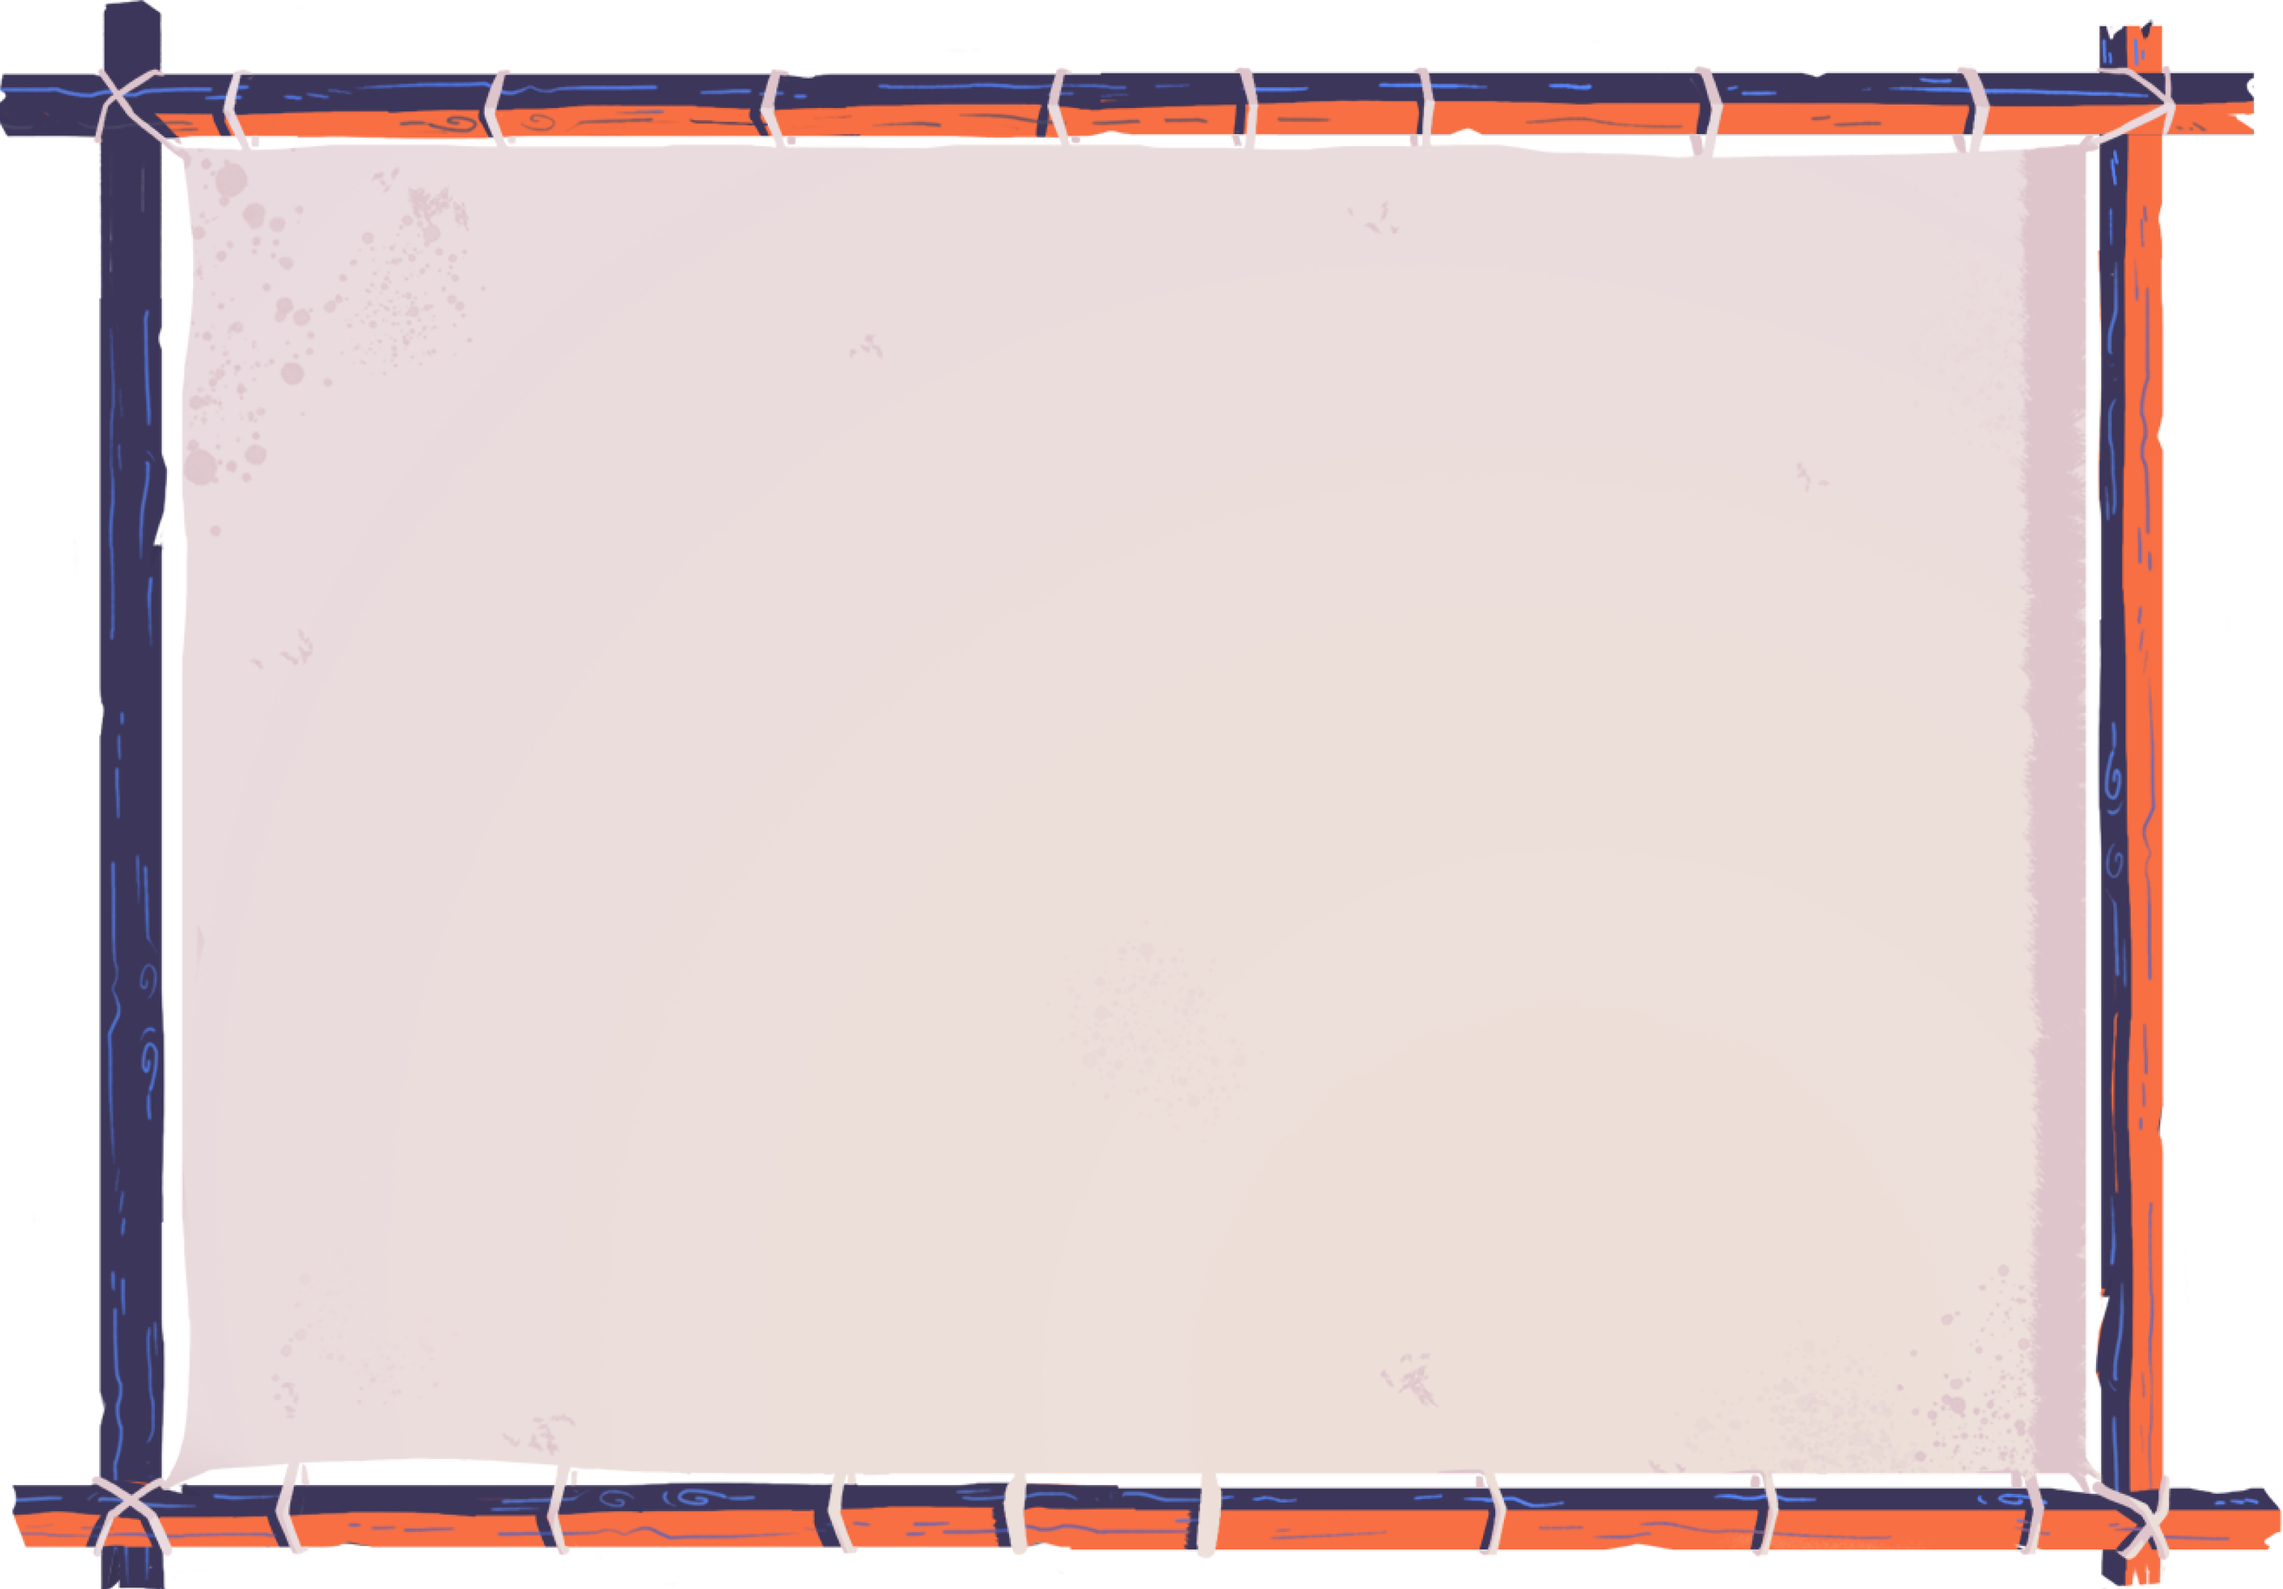
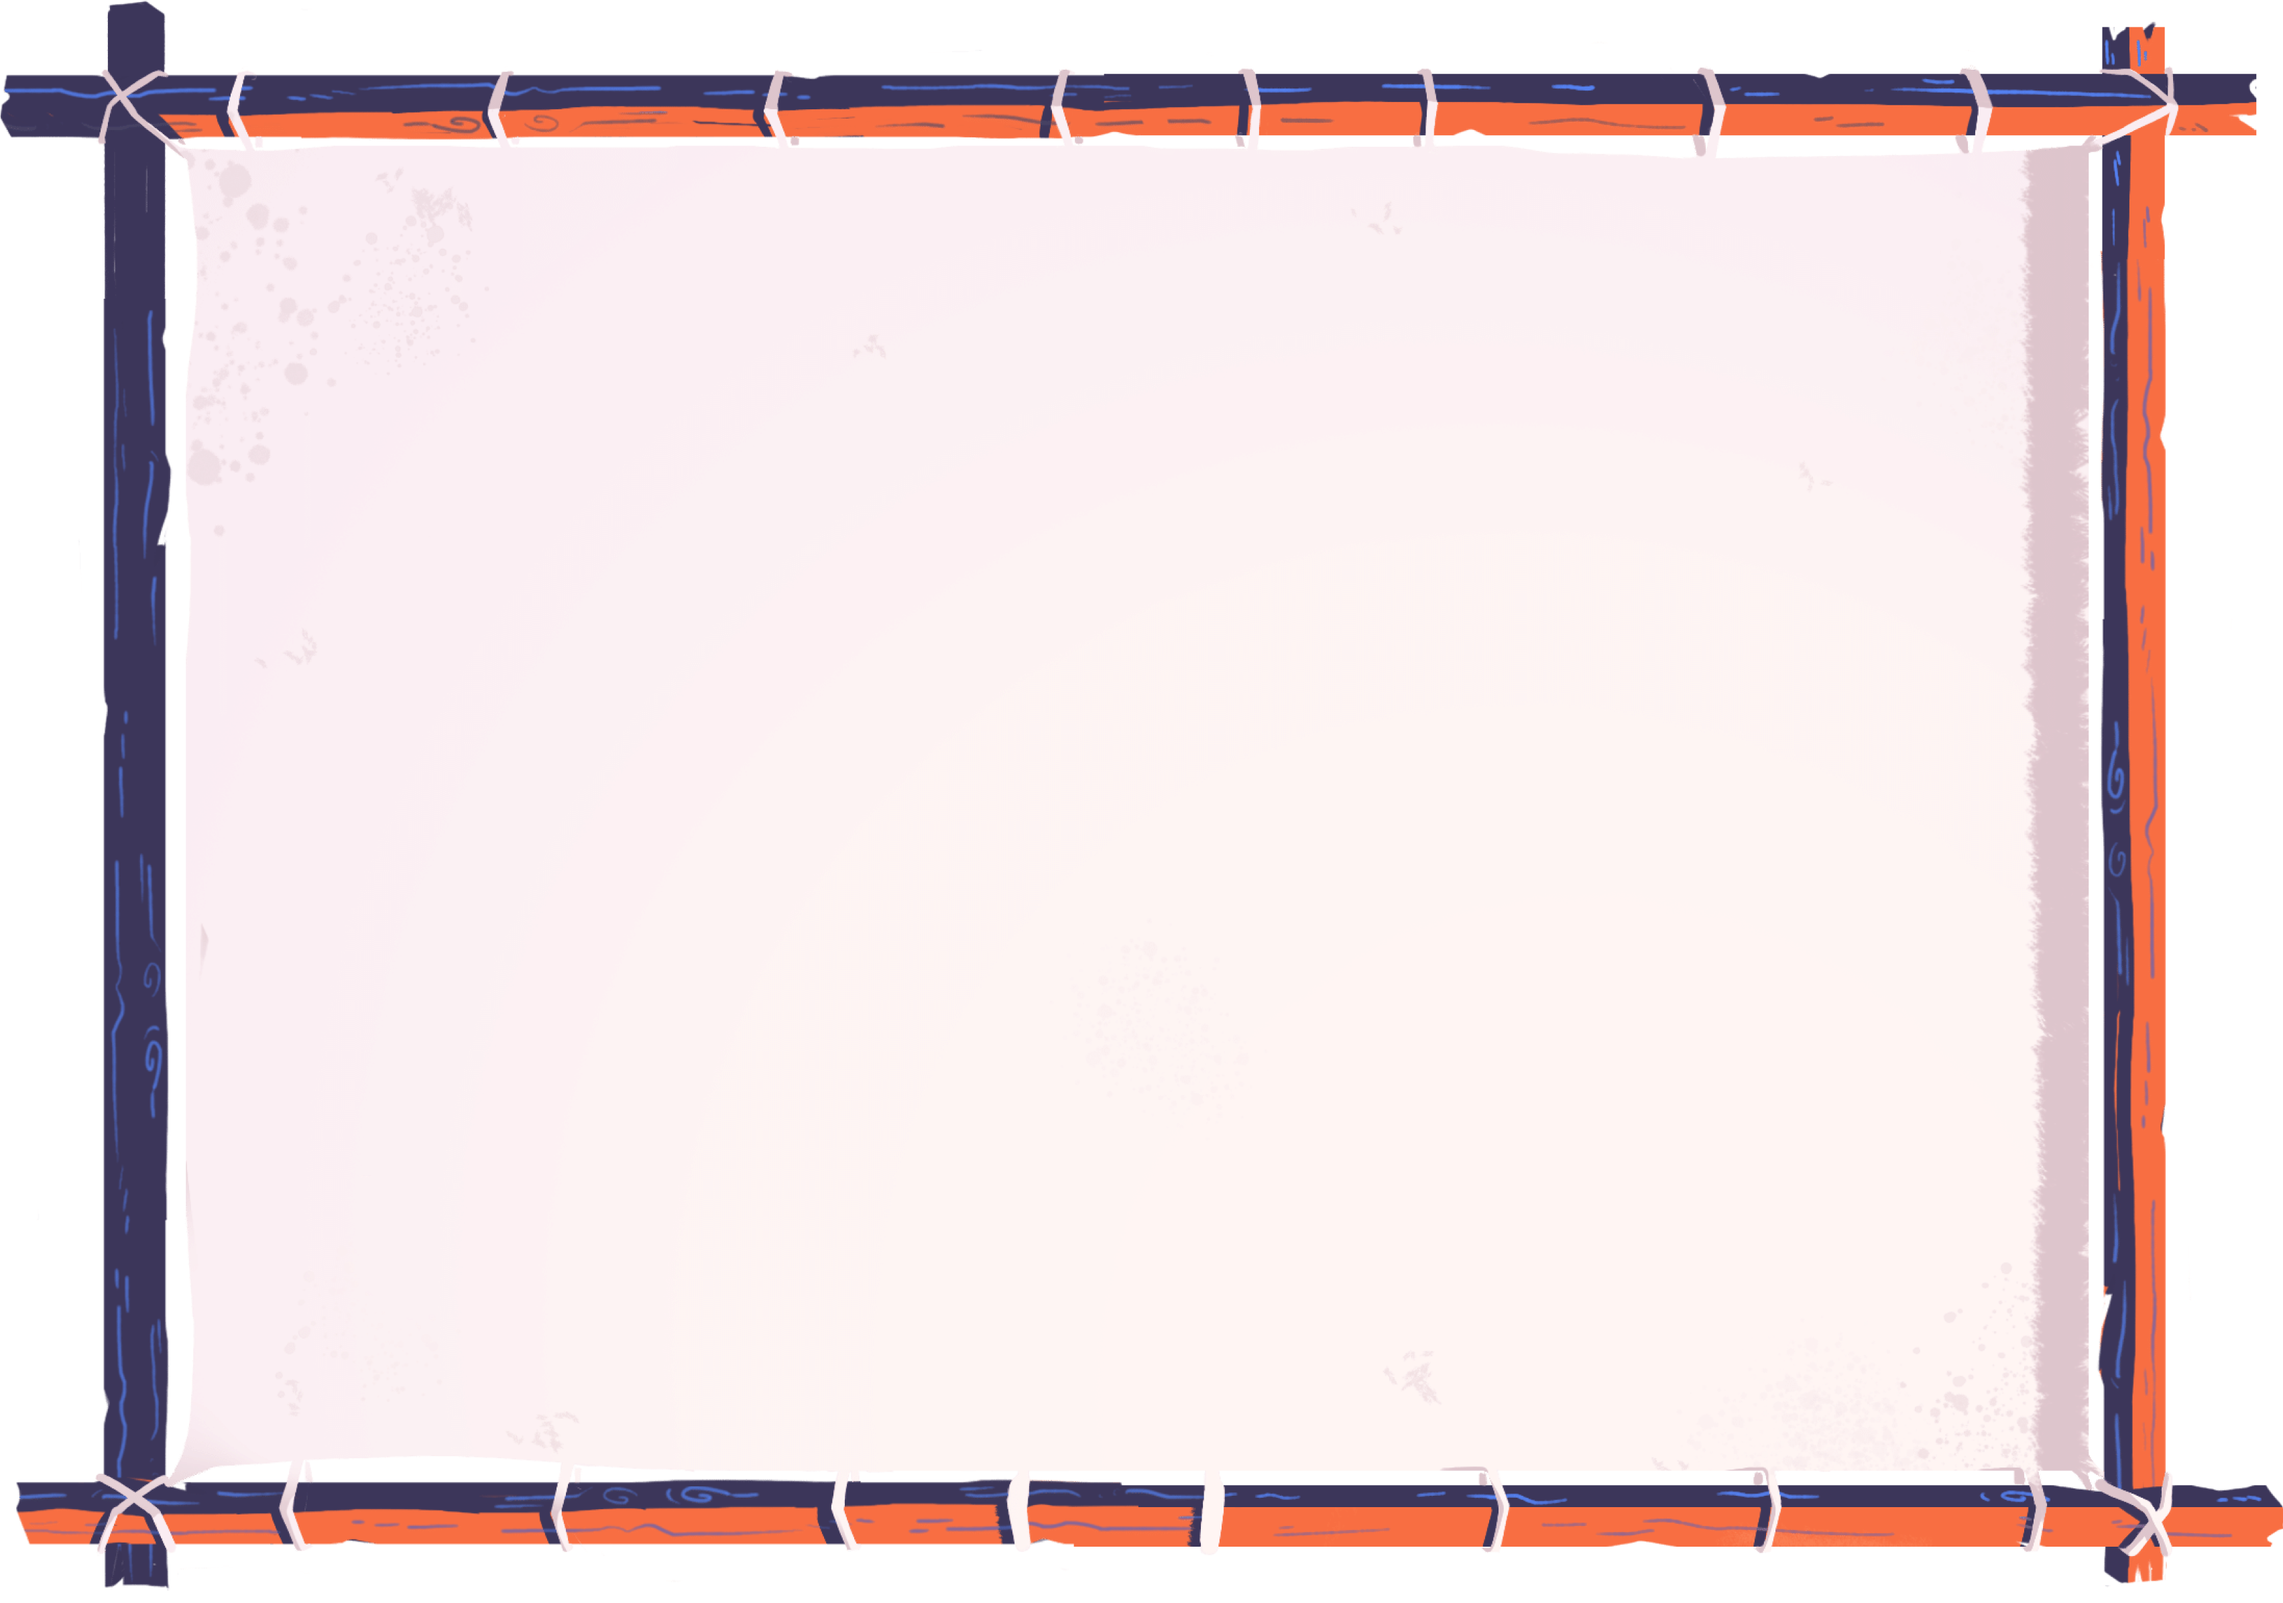
fix: modal background image

diff --git a/src/components/parameters/TheRadioer.vue b/src/components/parameters/TheRadioer.vue
@@ -64,7 +64,7 @@ export default {
           display: block;
           width: 21px;
           height: 24px;
-          background-color: #fff3f2;
+          background-color: #FEF4F3;
           background-image: url("../../assets/parameters/radio.png");
           background-repeat: no-repeat;
           background-size: 100% 100%;
@@ -110,16 +110,5 @@ export default {
       }
     }
   }
-  /* &.graphics {
-    .radios {
-      .radio {
-        input[type="radio"] {
-          &:before {
-            background-color: #ecded9;
-          }
-        }
-      }
-    }
-  } */
 }
 </style>

diff --git a/src/components/parameters/LangChanger.vue b/src/components/parameters/LangChanger.vue
@@ -45,7 +45,7 @@ export default {
         display: block;
         width: 32px;
         height: 32px;
-        background-color: #ecded9;
+        background-color: #FEF4F3;
         background-image: url("../../assets/parameters/button-off.png");
         background-repeat: no-repeat;
         background-size: 100% 100%;

diff --git a/src/components/parameters/OptionContainer.vue b/src/components/parameters/OptionContainer.vue
@@ -19,7 +19,6 @@ export default {
 
 <style lang="scss" scoped>
 .option-container {
-  background: rgba(237, 223, 216, 0.08);
   box-shadow: inset 0px 0px 11px rgba(222, 197, 204, 0.7);
   border-radius: 4px;
   padding: 24px 30px;
